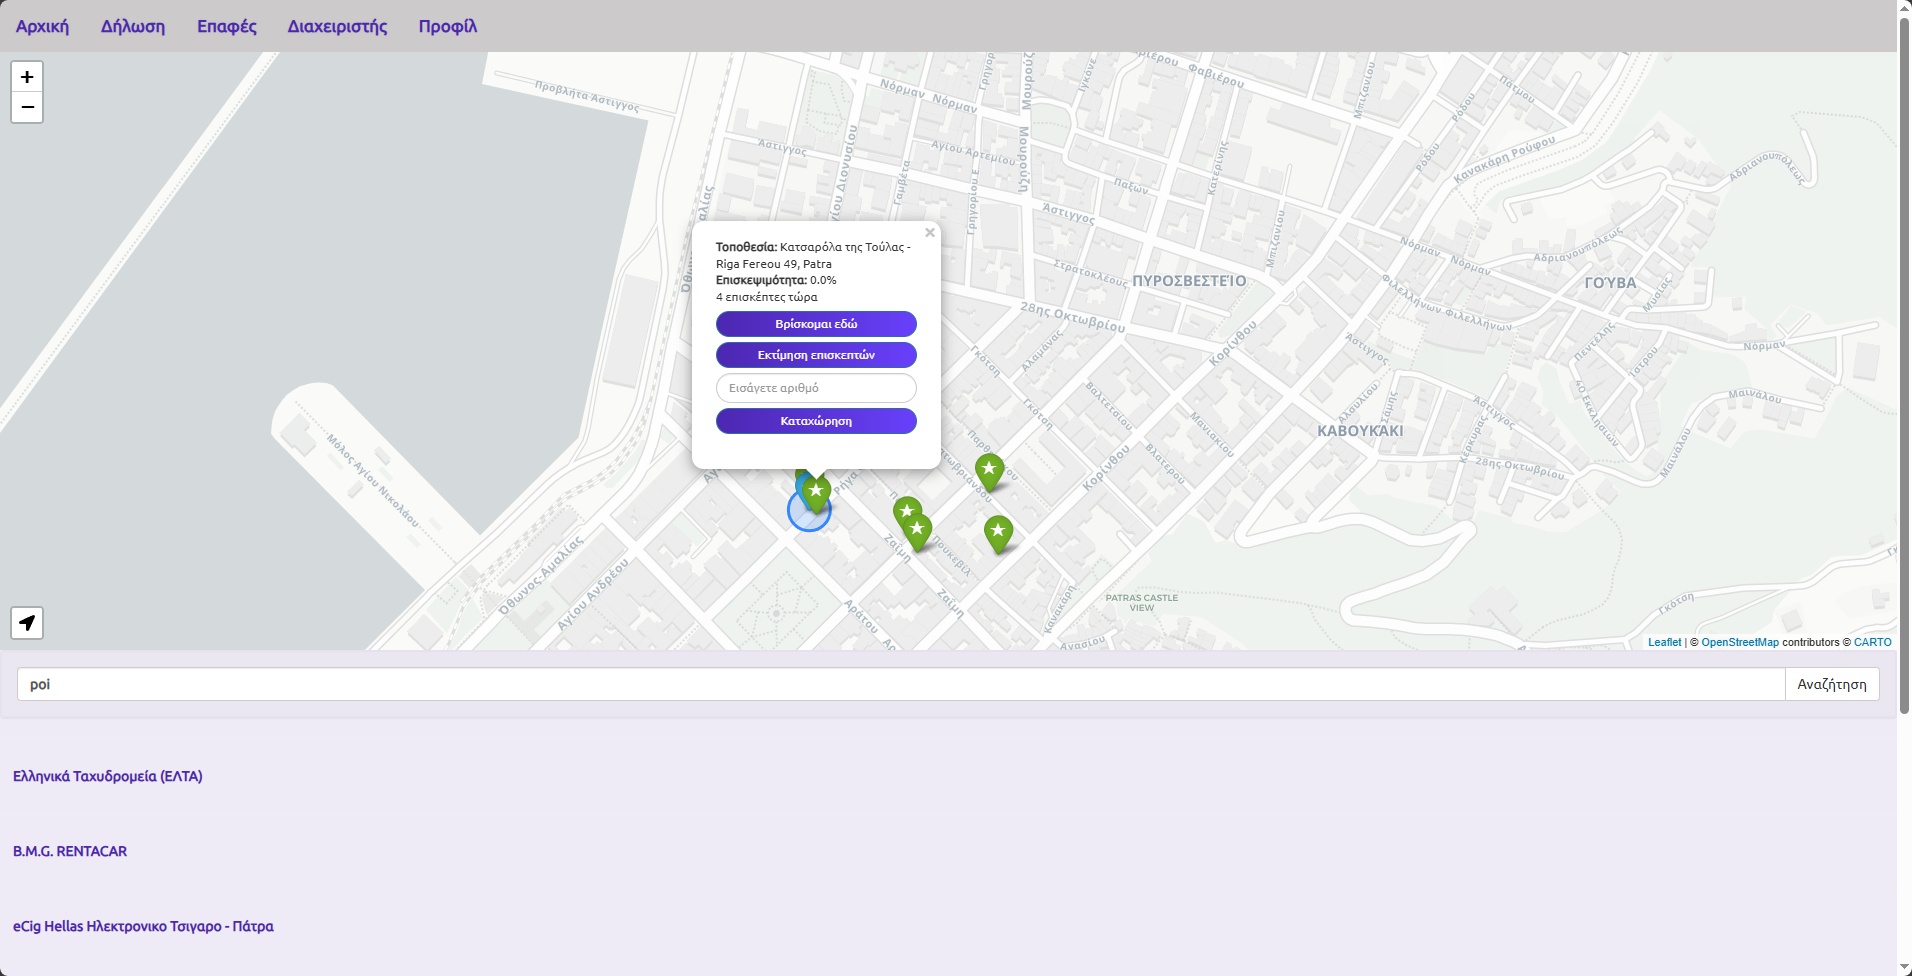
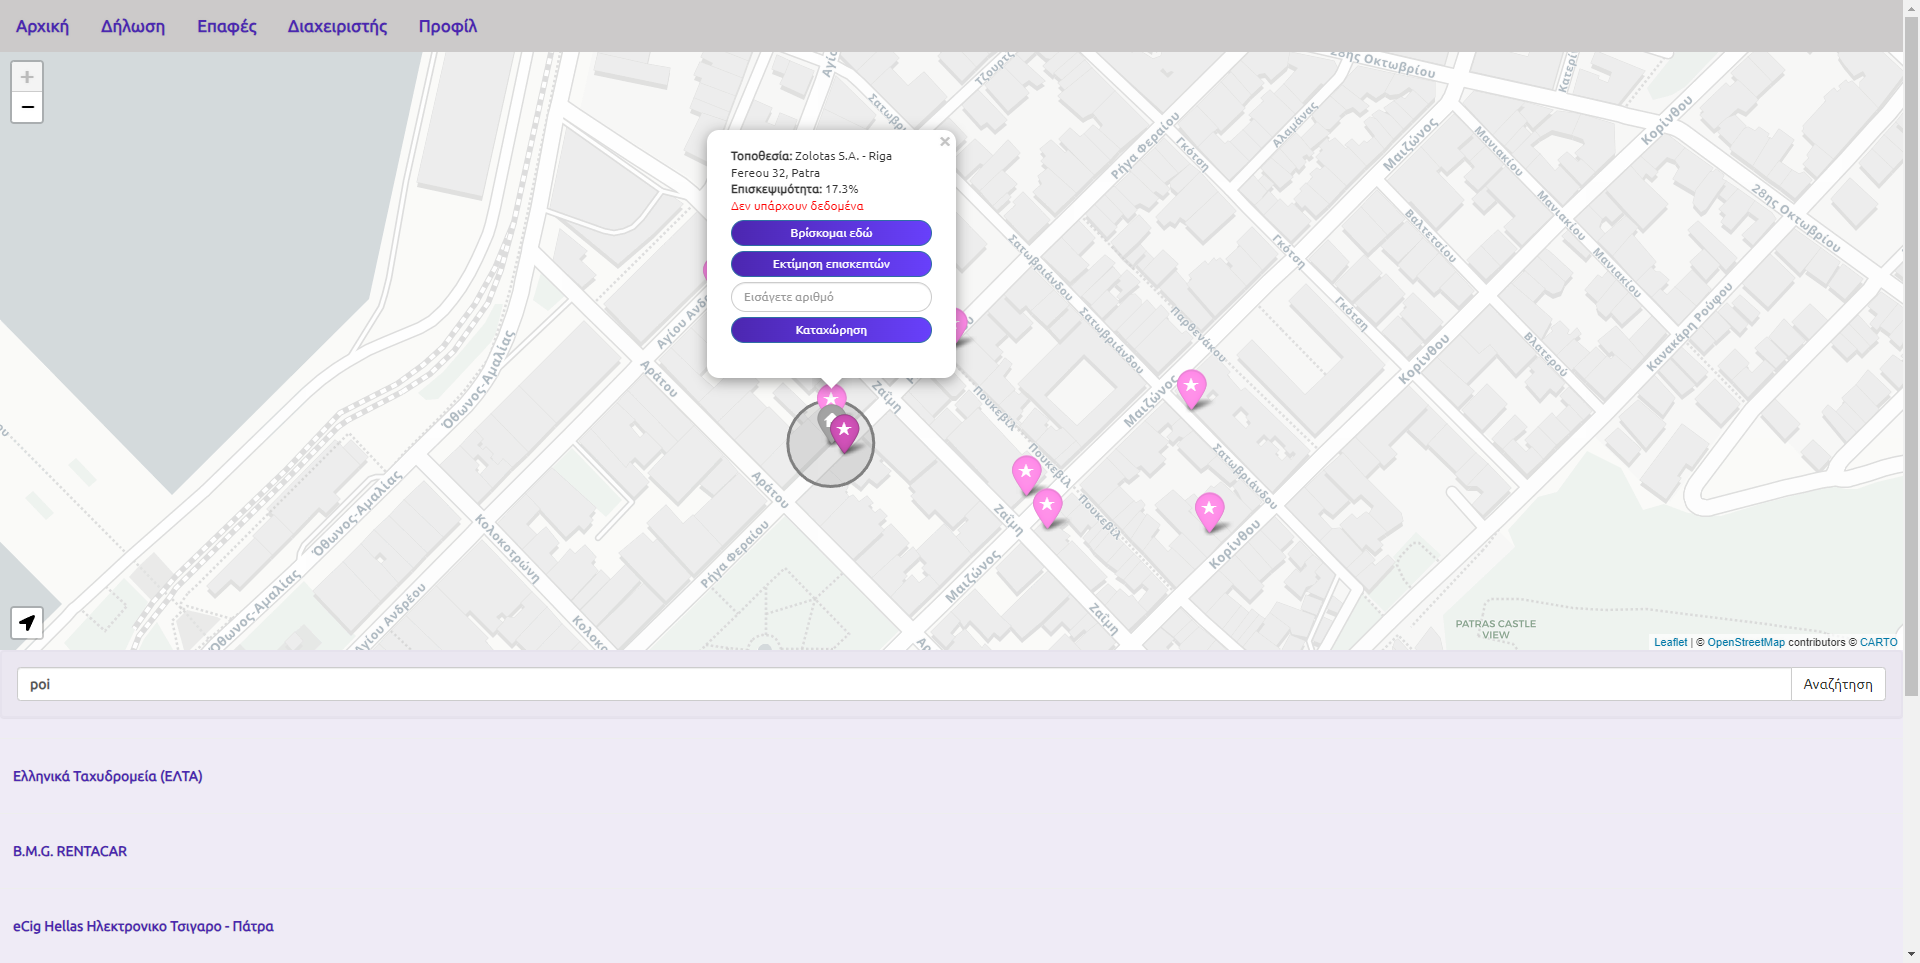
change marker colors

diff --git a/public/map.js b/public/map.js
@@ -1,18 +1,18 @@
 var blueMarker = L.AwesomeMarkers.icon({
     icon: "home",
-    markerColor: "blue",
+    markerColor: "lightgray",
 });
 var redMarker = L.AwesomeMarkers.icon({
     icon: "star",
-    markerColor: "red",
+    markerColor: "darkpurple",
 });
 var greenMarker = L.AwesomeMarkers.icon({
     icon: "star",
-    markerColor: "green",
+    markerColor: "pink",
 });
 var orangeMarker = L.AwesomeMarkers.icon({
     icon: "star",
-    markerColor: "orange",
+    markerColor: "purple",
 });
 
 const d = new Date();
@@ -73,9 +73,9 @@ const fake = {
 const marker = L.marker([fake.lat, fake.lng], {
         icon: blueMarker
     })
-    .bindPopup("<b> Η τοποθεσία μου", { maxWidth: 200 })
+    .bindPopup(`<div class="signnew"><b> Η τοποθεσία μου</div>`, { maxWidth: 200 })
     .addTo(myMap);
-L.circle([fake.lat, fake.lng], 20).addTo(myMap);
+L.circle([fake.lat, fake.lng], 20).setStyle({fillColor: 'gray', color: 'gray'}).addTo(myMap);
 myMap.setView([fake.lat, fake.lng], 15);
 
 function submitData() {
@@ -197,6 +197,6 @@ function focusOnMarker(x, y) {
     myMap.closePopup();
     circlesLayer.clearLayers();
     myMap.setView([x, y], 18);
-    L.circle([x, y], 20).addTo(circlesLayer);
+    L.circle([x, y], 20).setStyle({fillColor: 'pink', color: 'purple'}).addTo(circlesLayer);
     return;
 }
